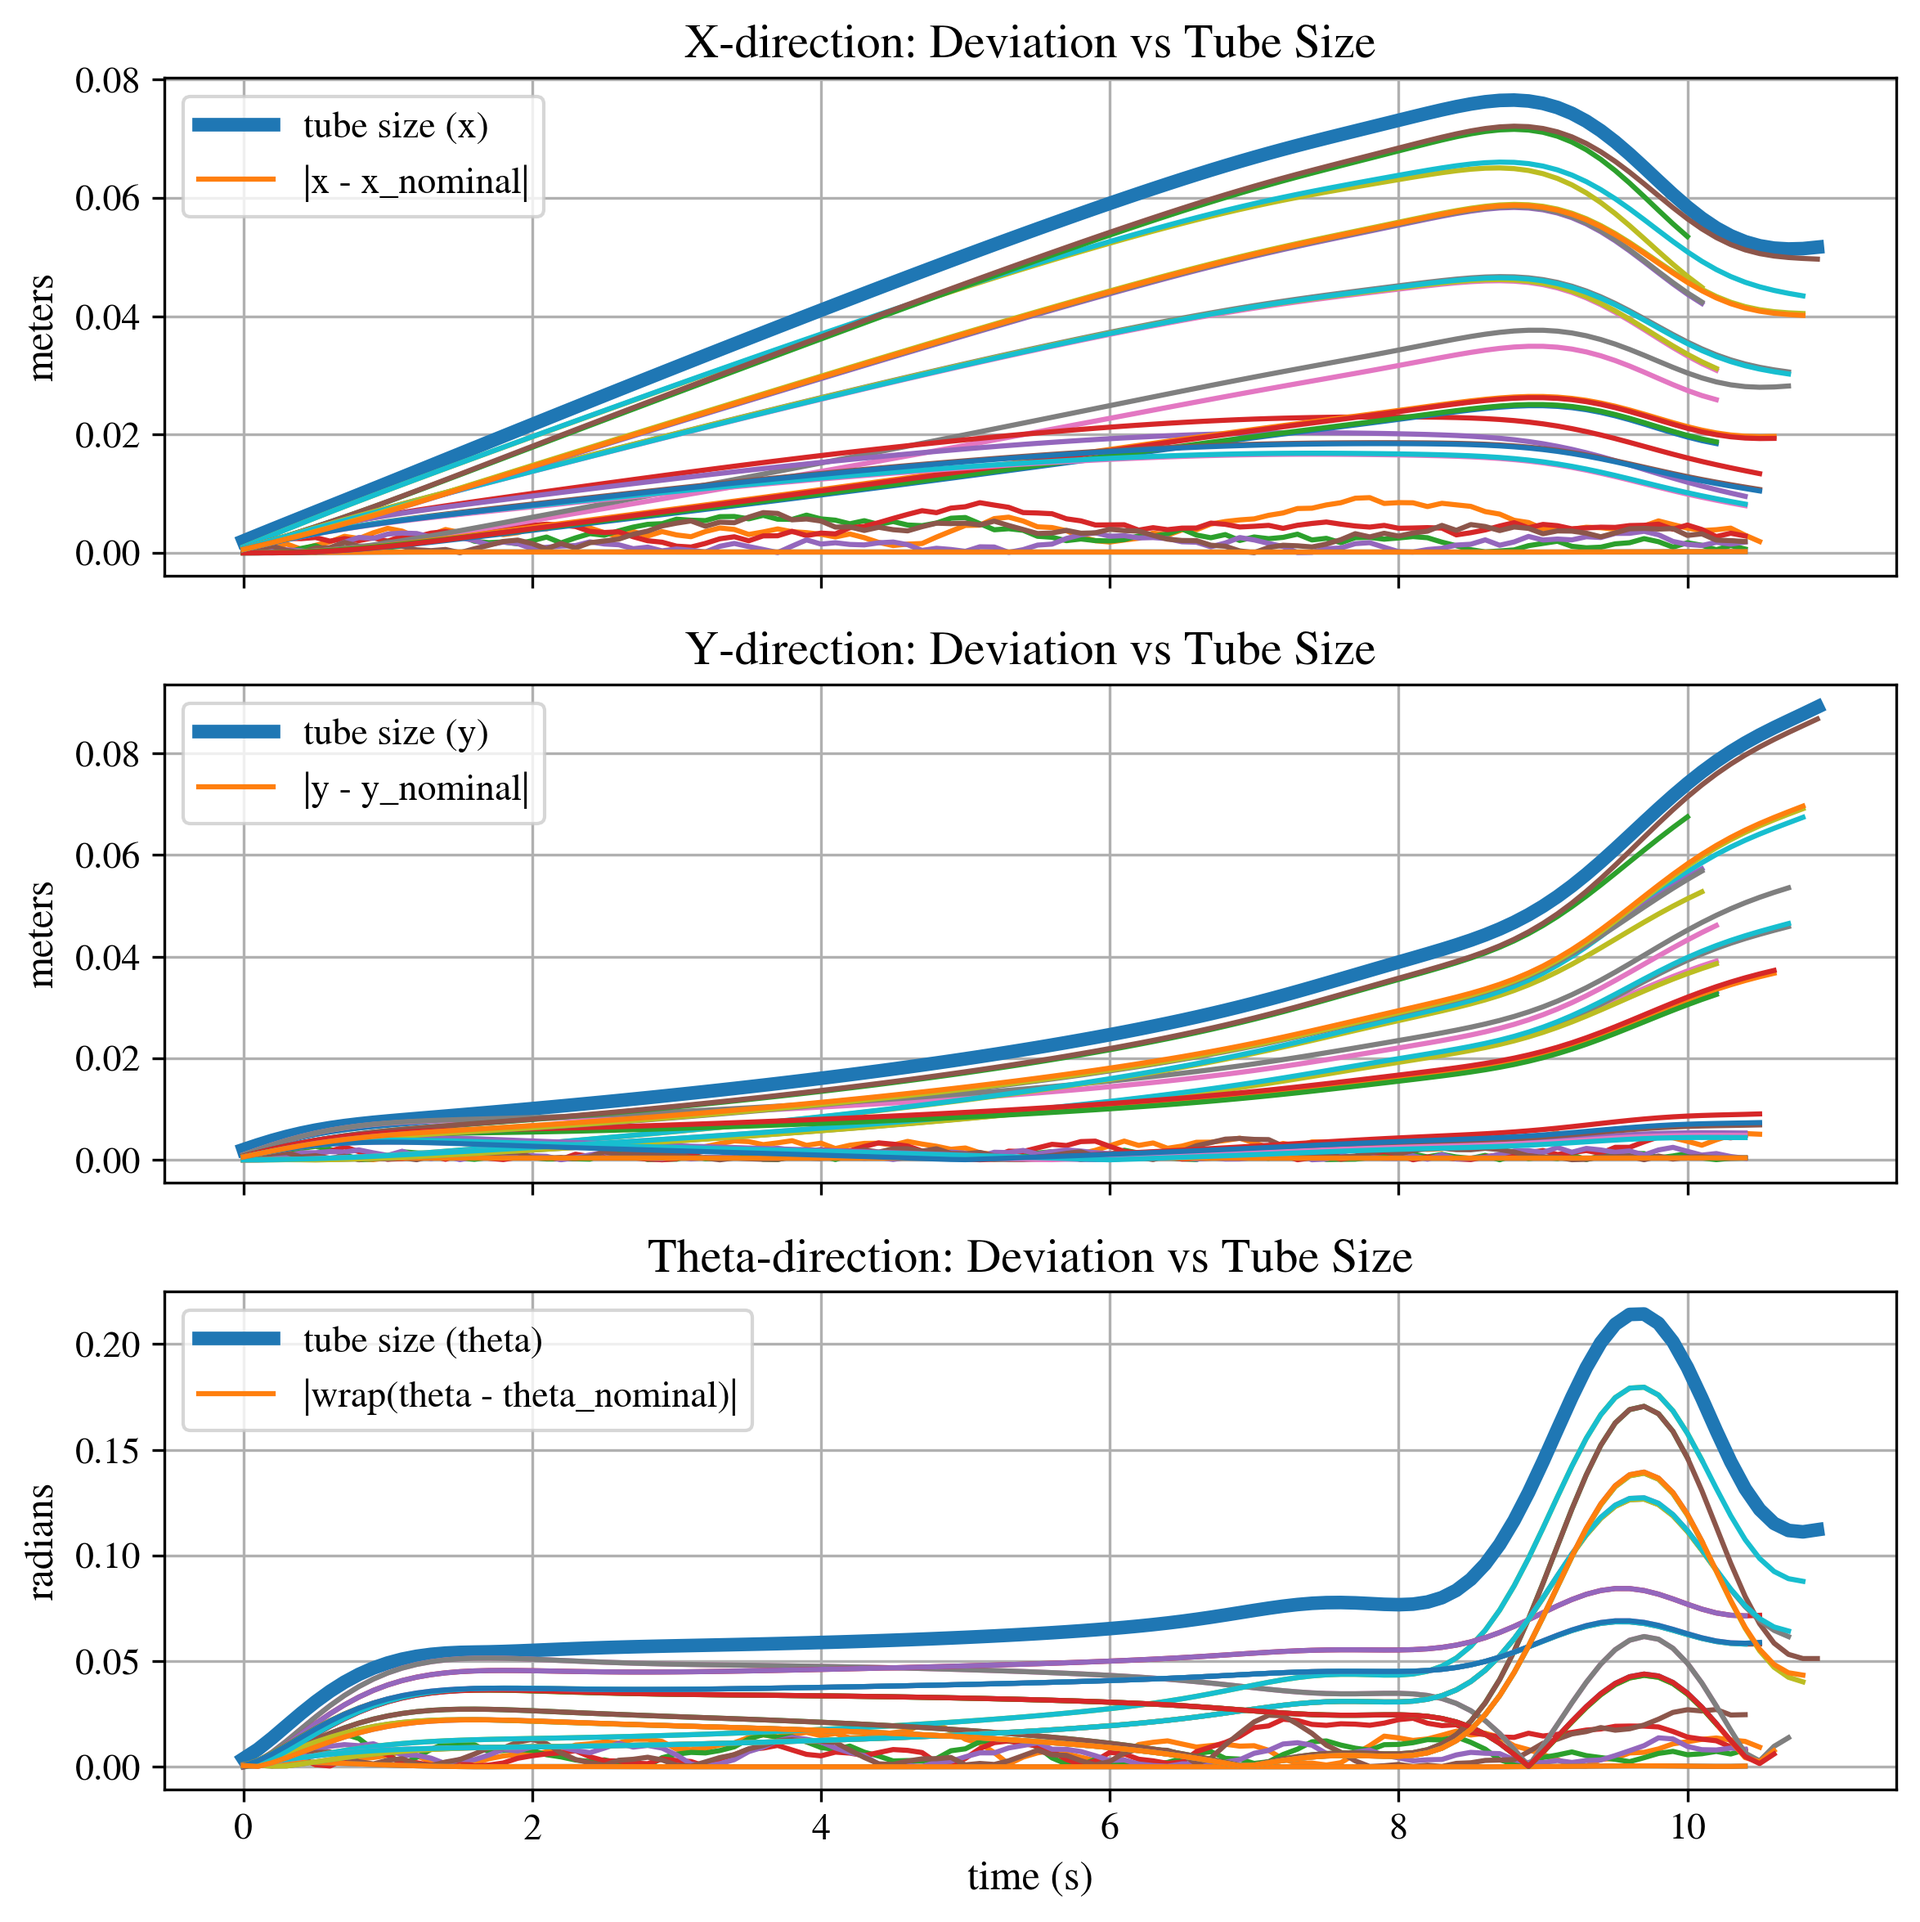
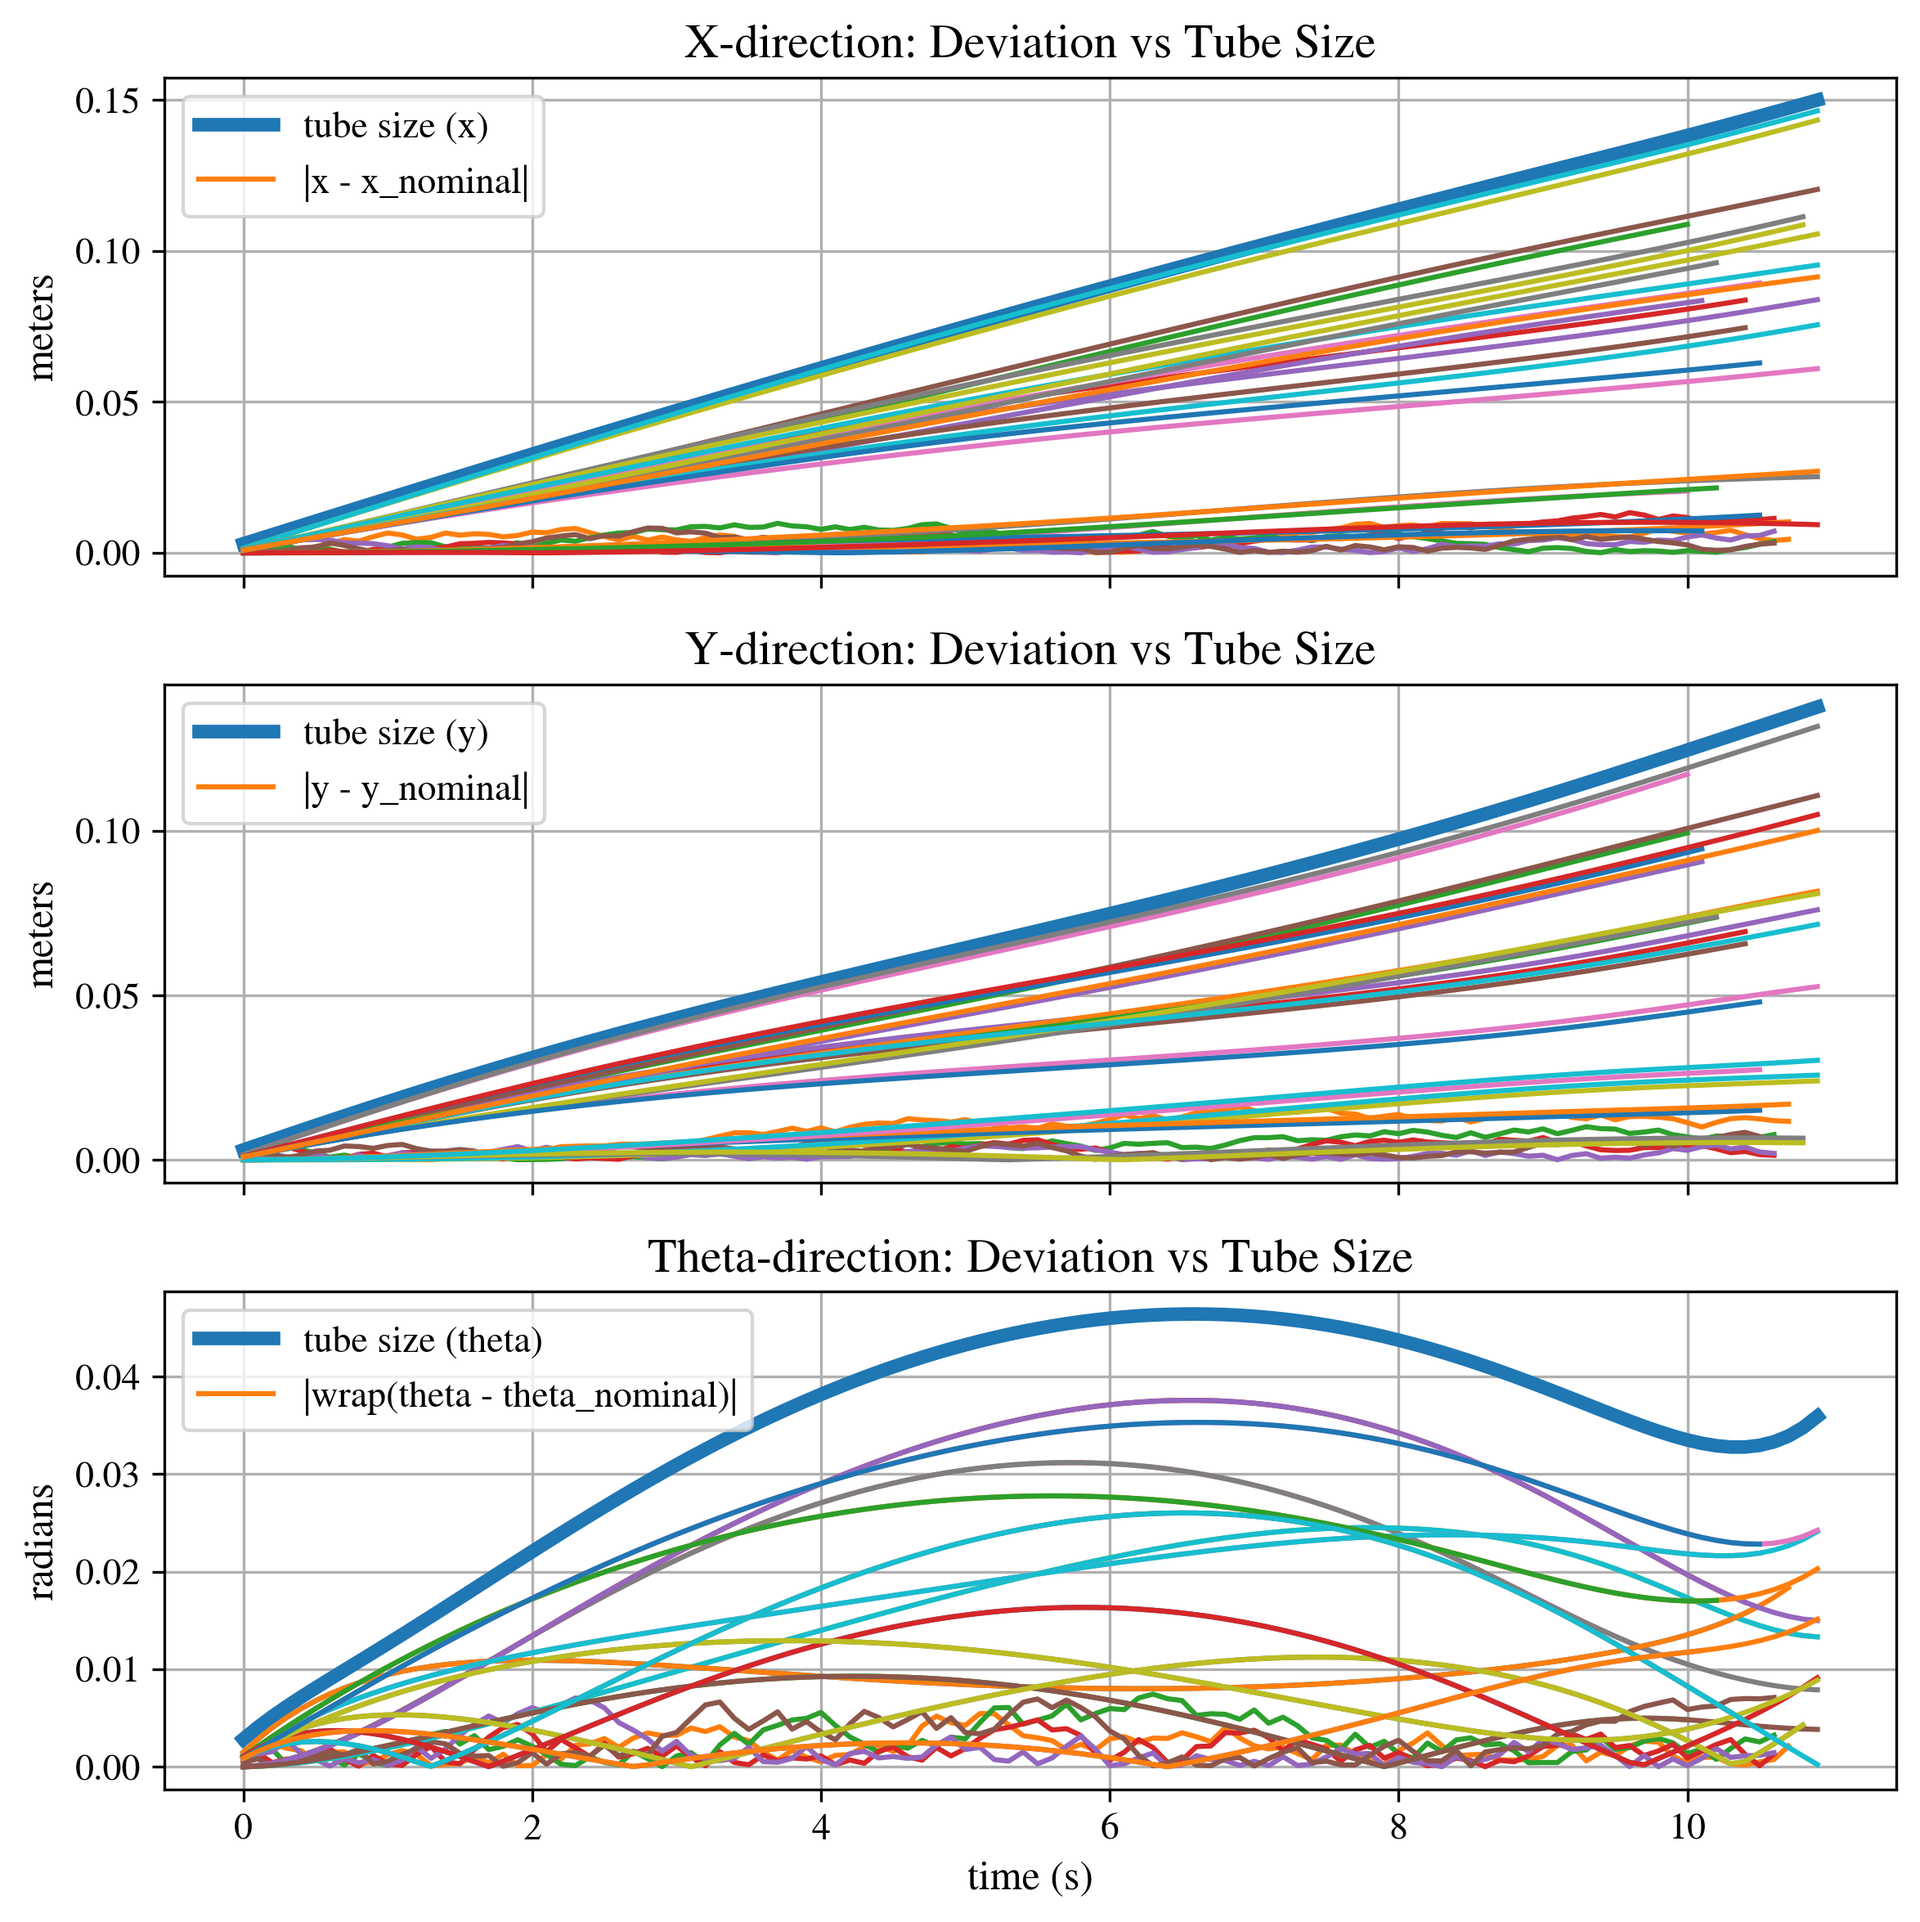
Add stuff

diff --git a/mpx/examples/car_linearization.py b/mpx/examples/car_linearization.py
@@ -672,7 +672,7 @@ def main():
     nc = 2 * nu + 2 * n + n_obs
 
     # disturbance model for the controller (E[t] = alpha_sim * I)
-    E_mag = 0.01
+    E_mag = 0.015
     alpha_sim = E_mag * dt
     disturbance = make_constant_disturbance(n=n, alpha=alpha_sim)
 
